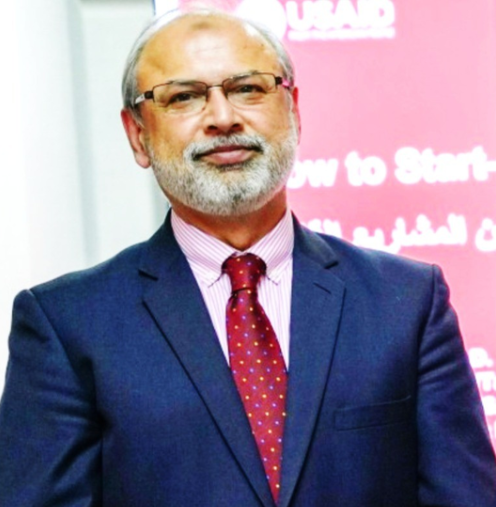
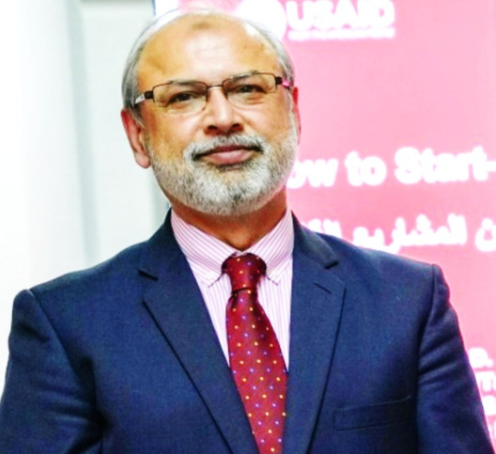
better change

diff --git a/src/components/GlobalTeamScroller.js b/src/components/GlobalTeamScroller.js
@@ -4,16 +4,16 @@ const TEAM = [
   // From provided images: global team members (excluding executives)
   { id: 'mazam', name: 'Muhammad Azam', role: 'Executive Director', photo: '/azam.png', linkedin: '#', website: '#' },
   { id: 'aakhan', name: 'Aamir A. Khan', role: 'Head of BD, Central & West US', photo: '/AamirKhan.png', linkedin: '#', website: '#' },
-  { id: 'dhassan', name: 'Daniyal Hassan', role: 'PMO Head', photo: '/DaniyalHassan.png', linkedin: '#', website: '#' },
+  { id: 'dhassan', name: 'Daniyal Hassan', role: 'PMO Head', photo: '/daniyal.png', linkedin: '#', website: '#' },
   { id: 'wtariq', name: 'Waqas Tariq', role: 'CTO', photo: '/waqas.png', linkedin: '#', website: '#' },
-  { id: 'asaigal', name: 'Asif Saigal', role: 'CPO', photo: '/AsifSaigal.png', linkedin: '#', website: '#' },
+  { id: 'asaigal', name: 'Asif Saigal', role: 'CPO', photo: '/asif.png', linkedin: '#', website: '#' },
   { id: 'rsidebottom', name: 'Richard Sidebottom', role: 'Senior Solution Architect', photo: '/richard.png', linkedin: '#', website: '#' },
   { id: 'ohampton', name: 'Orlando Hampton', role: 'AI Solution Architect', photo: '/orlando.png', linkedin: '#', website: '#' },
   { id: 'ehaberland', name: 'Eric Haberland', role: 'Solution Architect', photo: '/eric.png', linkedin: '#', website: '#' },
   { id: 'skhan', name: 'Sarfaraz Khan', role: 'Solution Architect', photo: '/sarfraz.png', linkedin: '#', website: '#' },
   { id: 'kwaheed', name: 'Kamran Waheed', role: 'Solution Architect', photo: '/kamran.png', linkedin: '#', website: '#' },
   { id: 'wmajid', name: 'Waqas Majid', role: 'BDM, West Europe', photo: '/WaqasMajid.png', linkedin: '#', website: '#' },
-  { id: 'mmumreez', name: 'M. Mumreez', role: 'BDM North Europe', photo: '/mumreez.png', linkedin: '#', website: '#' },
+  { id: 'mmumreez', name: 'M. Mumreez', role: 'BDM North Europe', photo: '/mumreez.jpg', linkedin: '#', website: '#' },
   { id: 'mmalik', name: 'Mudassar Malik', role: 'Technical Architect', photo: '/MudassarMalik.png', linkedin: '#', website: '#' },
   { id: 'tahmad', name: 'Tanveer Ahmad', role: 'Senior Tech Risk Advisor', photo: '/tanveer.png', linkedin: '#', website: '#' },
   { id: 'ichaudhry', name: 'Imran Chaudhry', role: 'Senior Tech Advisor', photo: '/imran.png', linkedin: '#', website: '#' },
@@ -74,7 +74,7 @@ function MemberCard({ member }){
             <img
           src={member.photo}
           alt={member.name}
-          className="h-full w-full object-cover transition-transform duration-300 group-hover:scale-110"
+          className="h-full w-full object-cover transition-transform duration-300 group-hover:scale-110 filter grayscale"
           onError={(e)=>{ e.currentTarget.style.display='none'; const f=e.currentTarget.parentElement?.querySelector('.fallback'); if(f){f.style.display='grid';} }}
         />
         <div className="fallback hidden absolute inset-0 place-items-center text-white/80 text-xl font-bold">

diff --git a/src/pages/AboutPage.js b/src/pages/AboutPage.js
@@ -3,8 +3,8 @@ import { Link } from 'react-router-dom';
 import GlobalTeamScroller from '../components/GlobalTeamScroller';
 
 const teammates = [
-  { id: 1, name: 'Usman CHAUDHARY', role: 'Founder & CEO', initials: 'U', photo: '/usman.png', linkedin: '' },
-  { id: 2, name: 'Hafiz Saqif', role: 'Founder & CEO', initials: 'H', photo: '/hafiz.jpg', linkedin: '' },
+  { id: 1, name: 'Usman Chaudhary', role: 'Co-Founder & CEO', initials: 'U', photo: '/usman.png', linkedin: '' },
+  { id: 2, name: 'Hafiz Saqif', role: 'Co-Founder & CEO', initials: 'H', photo: '/hafiz.jpg', linkedin: '' },
 ];
 
 const AboutPage = () => {
@@ -231,7 +231,7 @@ const AboutPage = () => {
                         <img
                           src="/hafiz.jpg"
                           alt="Hafiz Saqif"
-                          className="h-full w-full object-cover shadow-2xl group-hover:scale-110 transition-transform duration-500"
+                          className="h-full w-full object-cover shadow-2xl group-hover:scale-110 transition-transform duration-500 filter grayscale"
                           onError={(e) => {
                             e.currentTarget.style.display = 'none';
                             const fallback = e.currentTarget.parentElement && e.currentTarget.parentElement.querySelector('.fallback');
@@ -330,7 +330,7 @@ const AboutPage = () => {
                       <img
                         src={t.photo}
                         alt={t.name}
-                        className="h-full w-full object-cover shadow-2xl group-hover:scale-110 transition-transform duration-500"
+                        className="h-full w-full object-cover shadow-2xl group-hover:scale-110 transition-transform duration-500 filter grayscale"
                         onError={(e) => {
                           e.currentTarget.style.display = 'none';
                           const fallback = e.currentTarget.parentElement && e.currentTarget.parentElement.querySelector('.fallback');

diff --git a/src/components/Footer.js b/src/components/Footer.js
@@ -70,7 +70,7 @@ const Footer = () => {
 
         <div className="mt-8 border-t border-white/10 pt-6 flex flex-col md:flex-row items-start md:items-center justify-between gap-4">
           <p className="text-white/60">© {new Date().getFullYear()} Rush Group International Limited. All rights reserved.</p>
-          <div className="text-white/60">Made with ❤ by Rush</div>
+          <a href="https://bitwords.com/" target="_blank" rel="noopener noreferrer" className="text-white/60 hover:text-white/80 transition-colors">Made with ❤ by Bitwords Inc</a>
         </div>
       </div>
     </footer>
